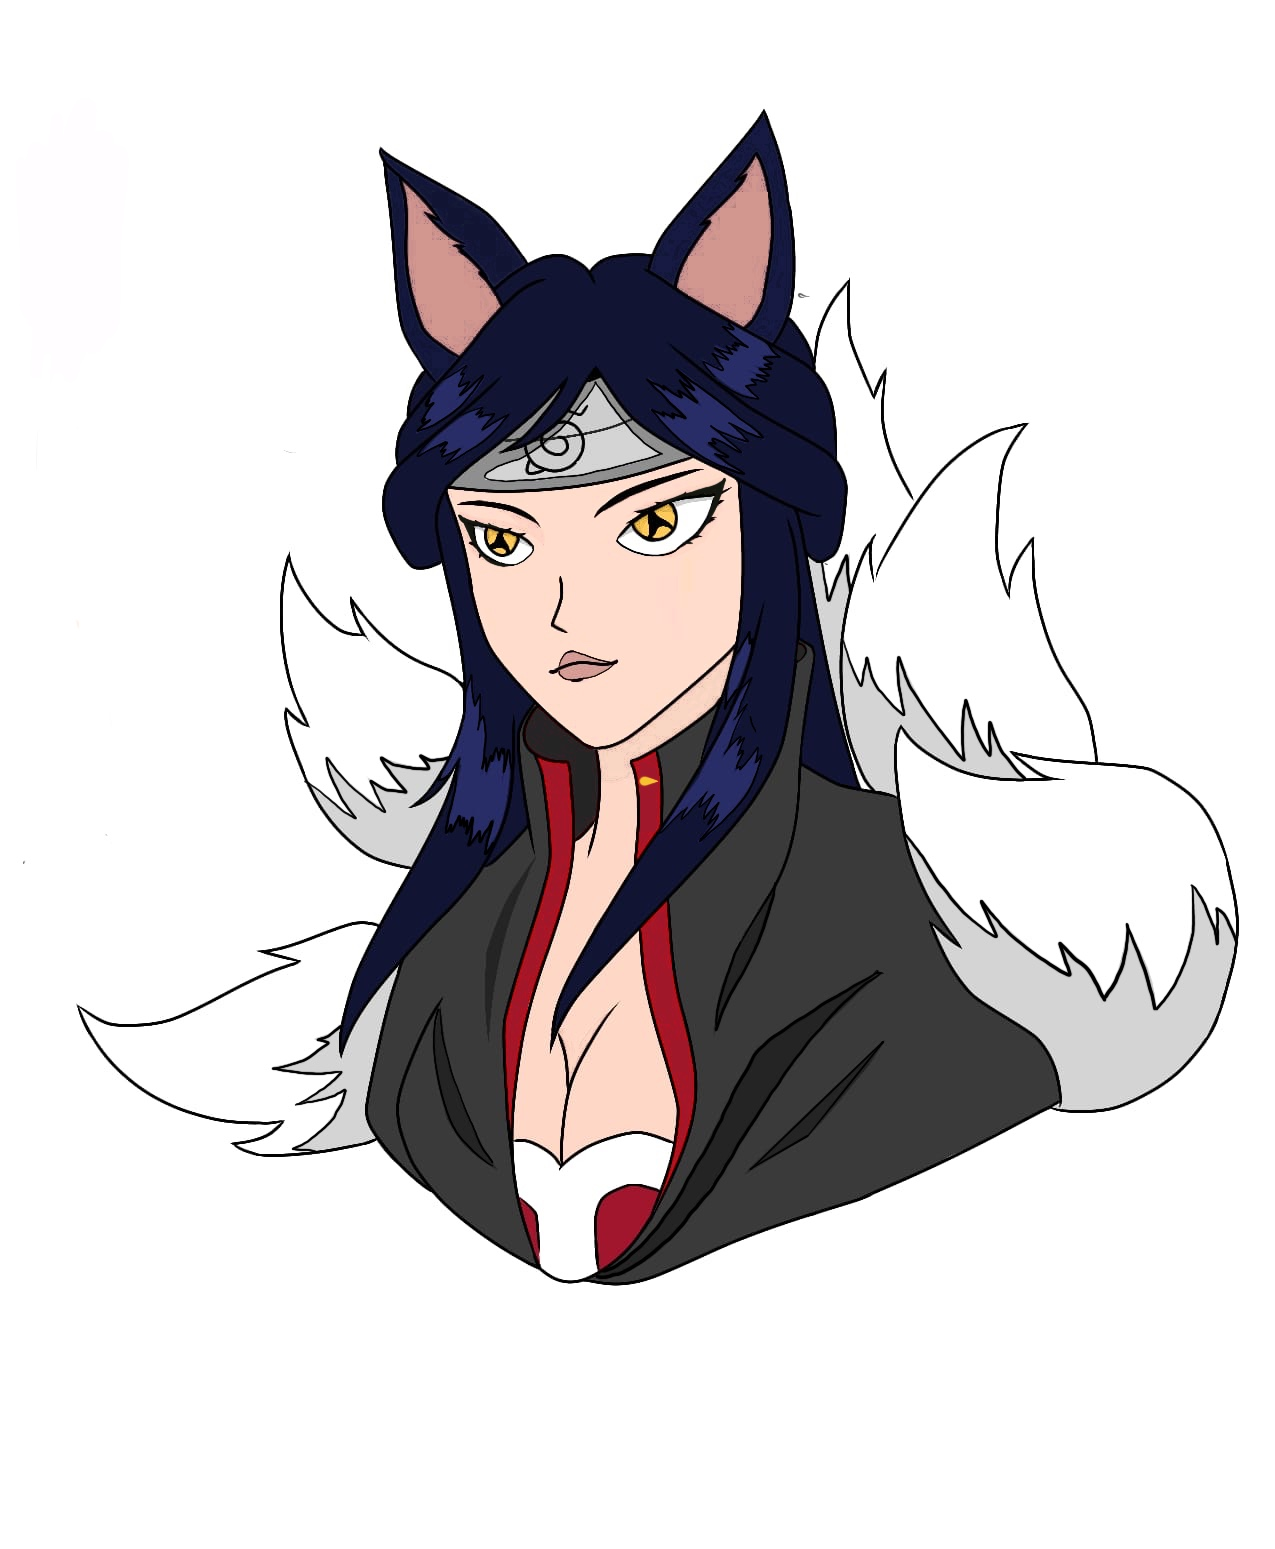
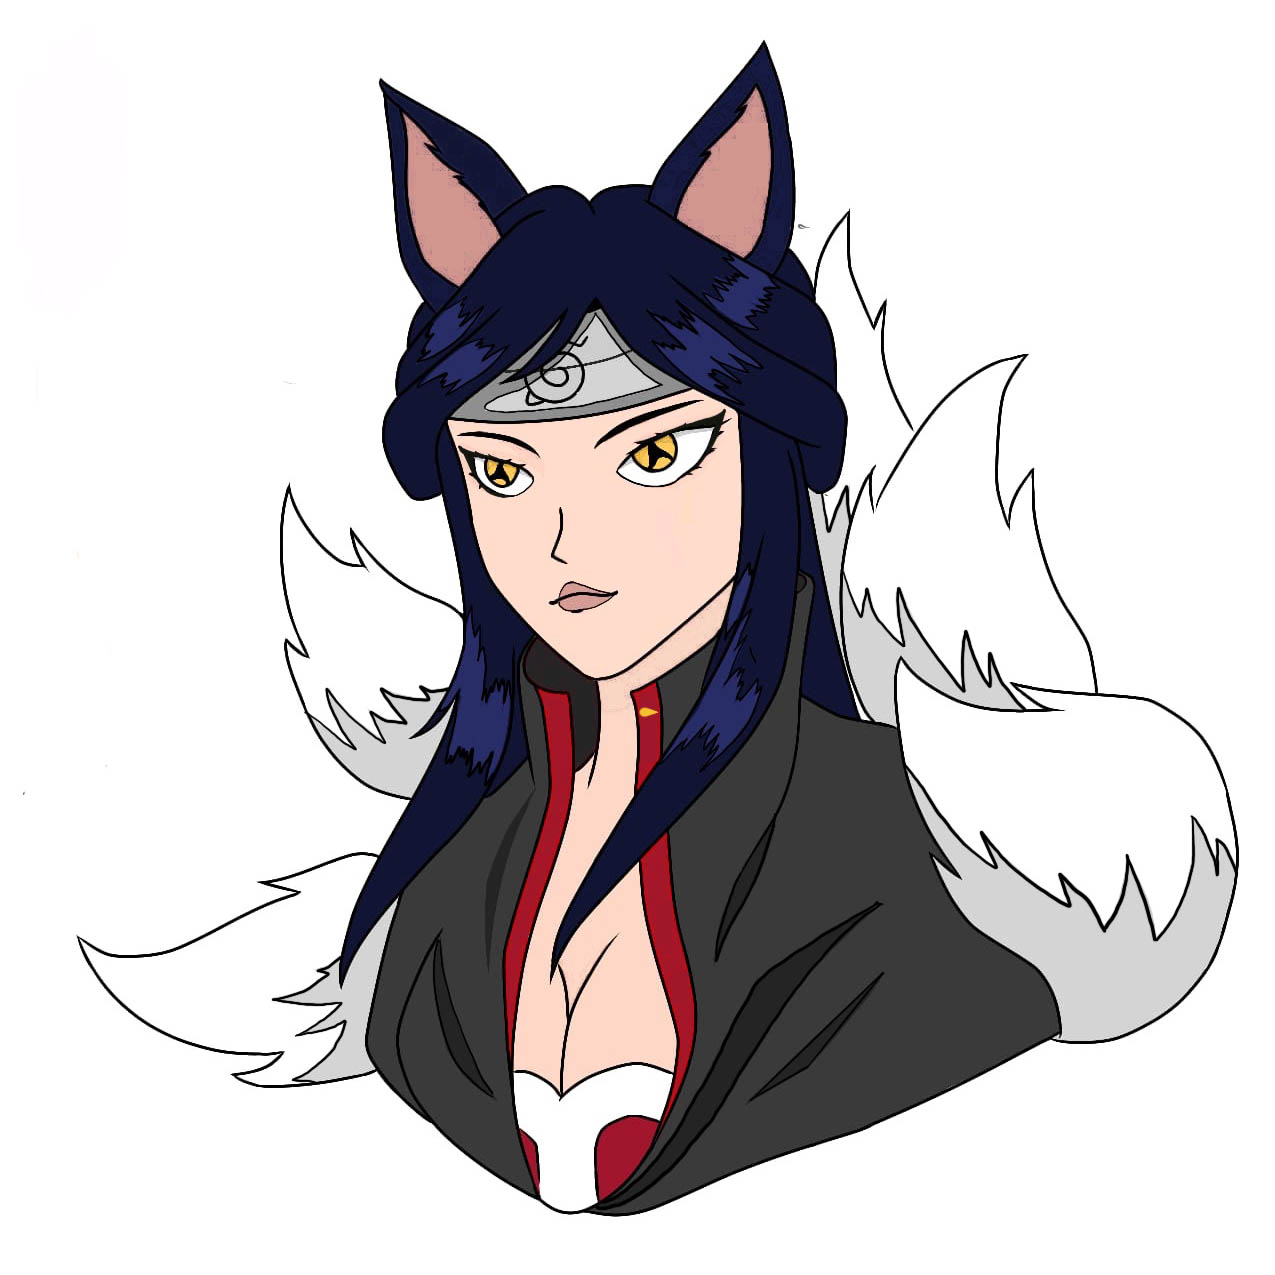
ahri ana sayfaya eklendi / resim kare boyutlandırıldı (ps)

diff --git a/index.html b/index.html
@@ -157,7 +157,16 @@
             </a>
           </div>
 
-
+          <div class="item design col-sm-6 col-md-4 col-lg-4 mb-4">
+            <a href="Caitlyn.html" class="item-wrap fancybox">
+              <div class="work-info">
+                <h3>Ahri X Itachi</h3>
+                <span>LoL X Naruto</span>
+              </div>
+              <img class="img-fluid" src="assets/img/ahri.jpg"
+              height="500">
+            </a>
+          </div>
 
           <div class="item branding col-sm-6 col-md-4 col-lg-4 mb-4">
             <a href="jinx.html" class="item-wrap fancybox">
